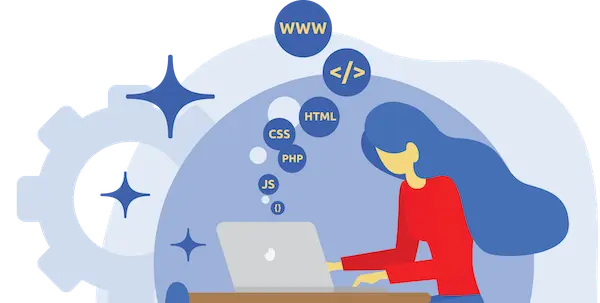
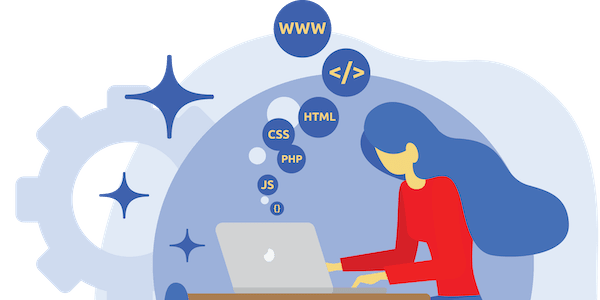
hero image

diff --git a/src/components/hero/hero.js b/src/components/hero/hero.js
@@ -9,6 +9,8 @@ class HeroComponent extends HTMLElement {
           <div>
             <img
               src="./images/hero-small.webp"
+              width="600"
+              height="300"
               alt="hero image"
               class="hero-image"
               fetchpriority="high"
